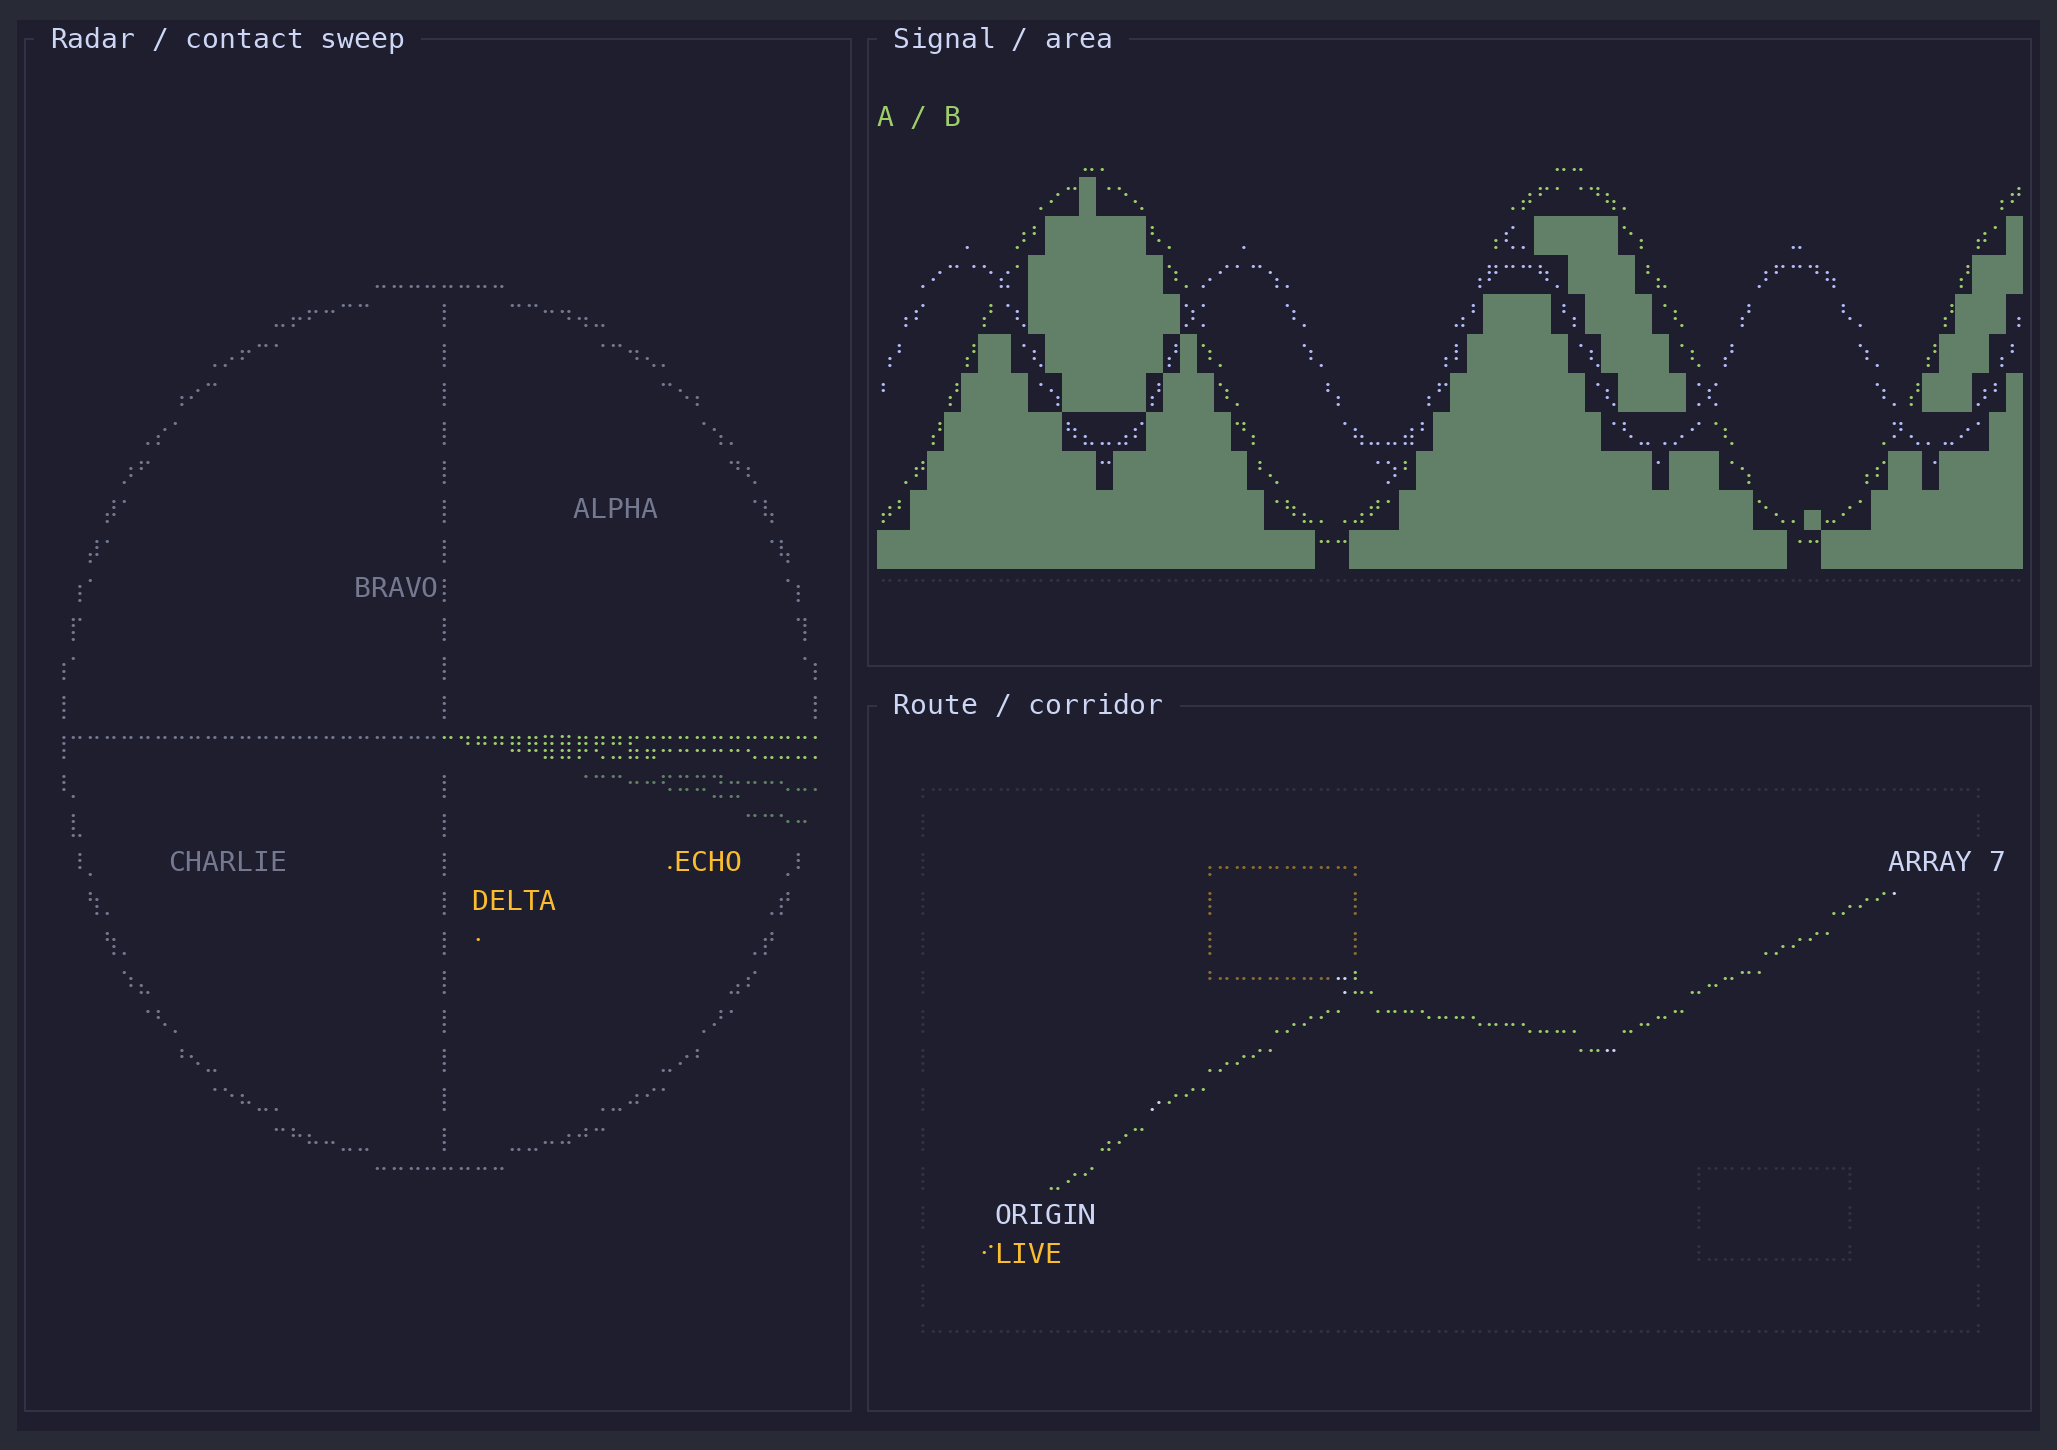
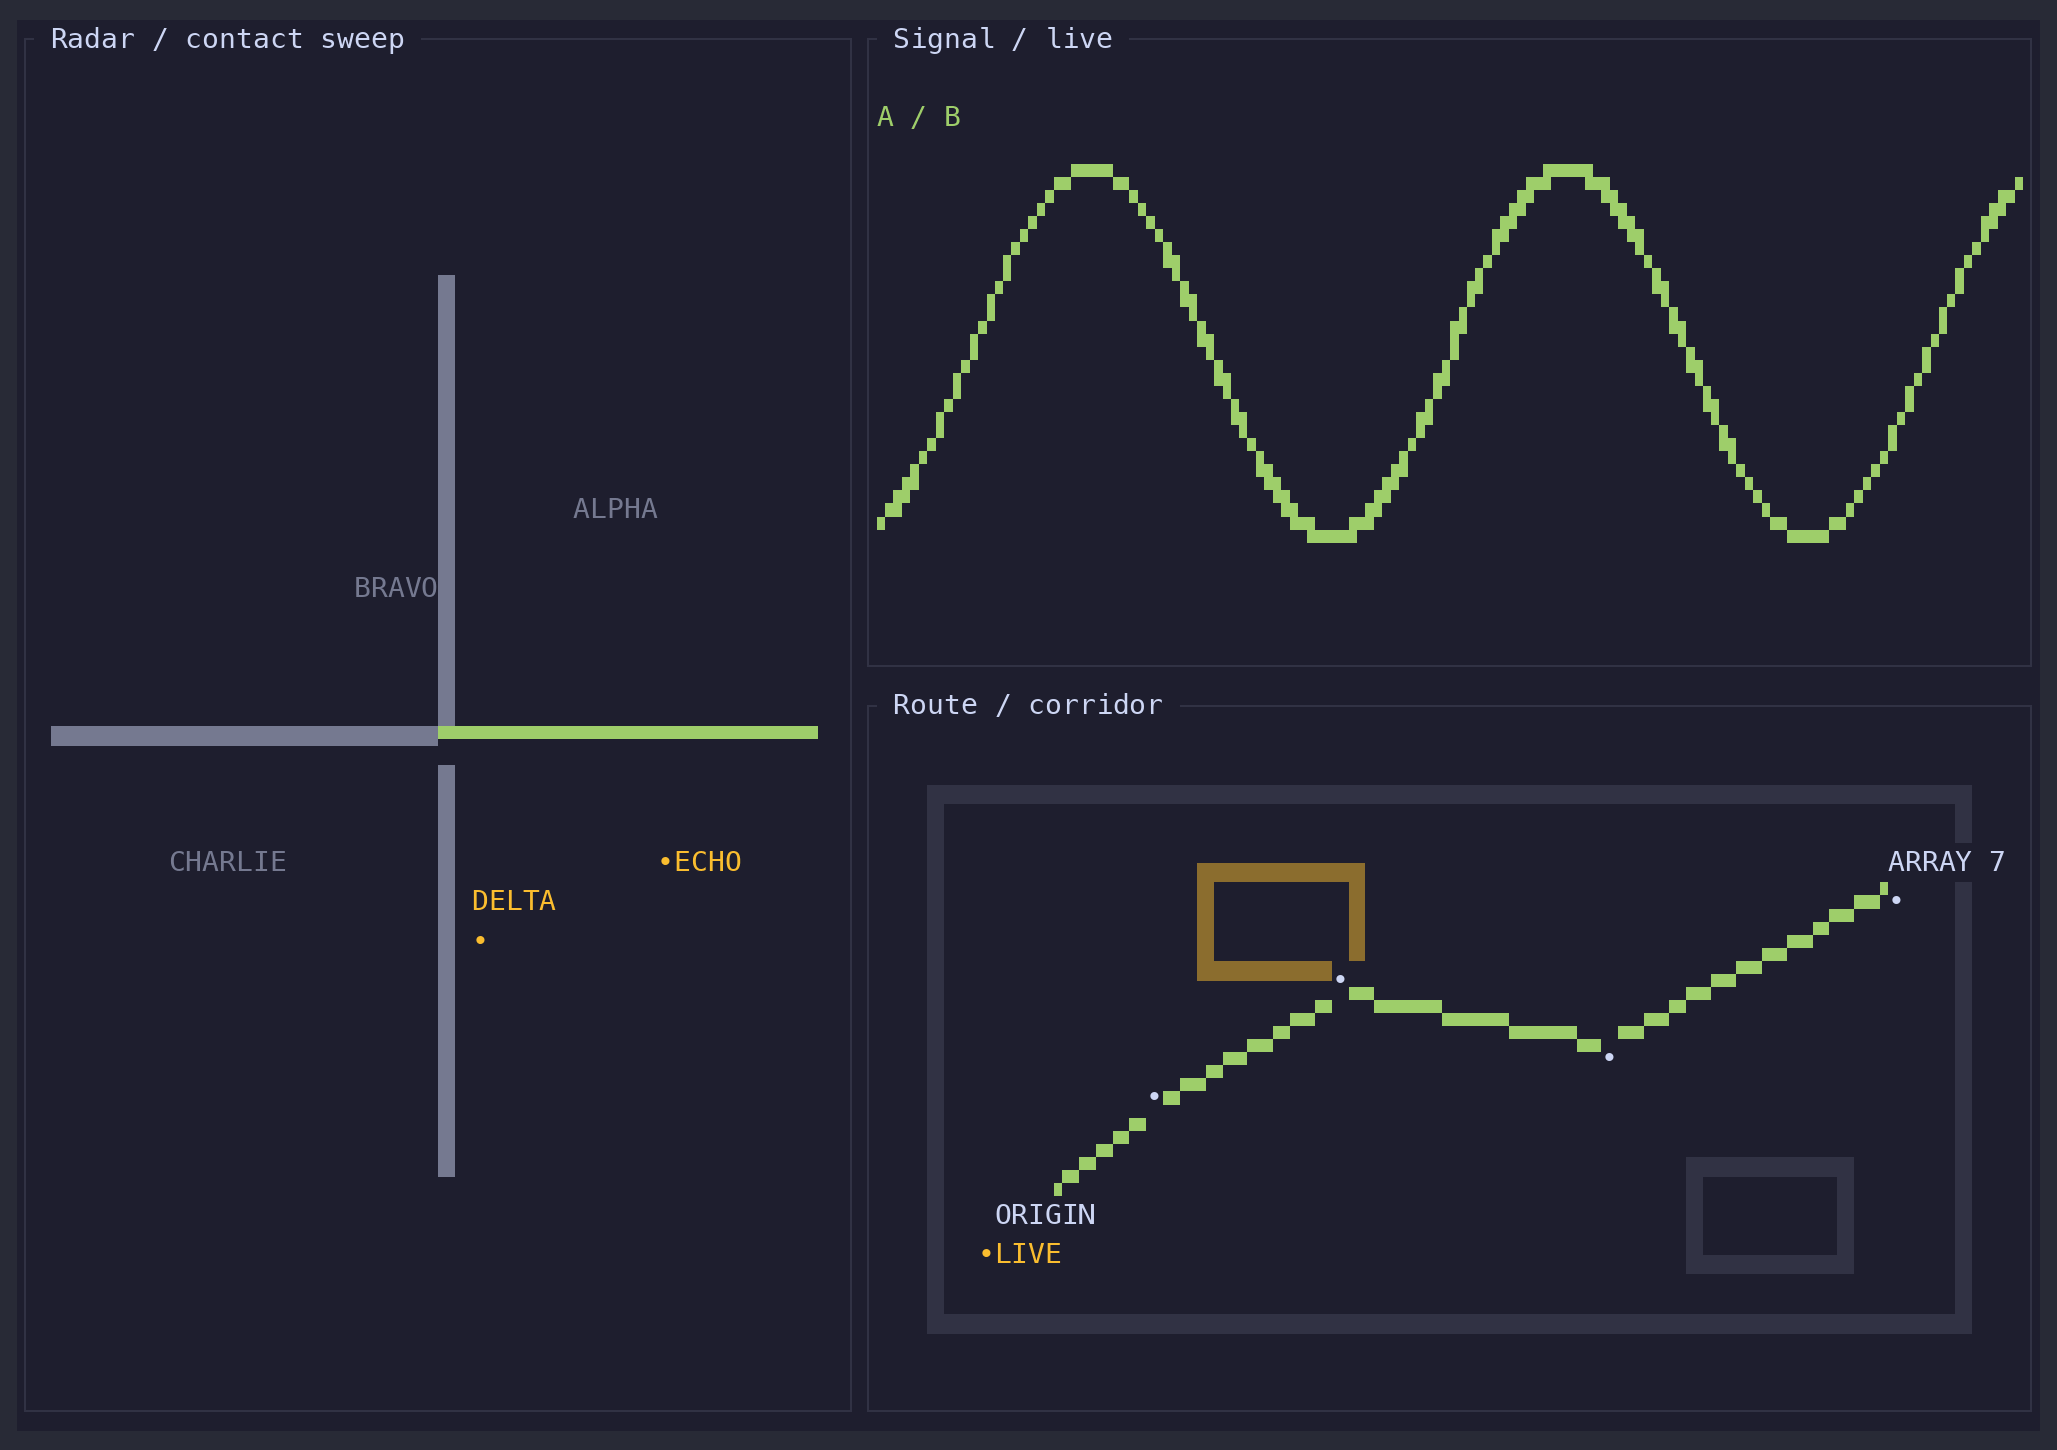
Smooth Canvas showcase lines

diff --git a/examples/widget_preview.rs b/examples/widget_preview.rs
@@ -16,7 +16,7 @@ use lunatui_core::{
 use lunatui_runtime::keymap::{Command, KeyChord, Keymap};
 use lunatui_term::{ColorMode, Encoder, KeyCode, Modifiers};
 use lunatui_theme::{Profile, Theme, Token, Variant};
-use lunatui_widgets::canvas::{Circle, Line, Points, Rectangle};
+use lunatui_widgets::canvas::{Line, Points, Rectangle};
 use lunatui_widgets::{
     Alignment, Axis, Bar, BarChart, BarDirection, BarGroup, BigText, Block, BorderType,
     Breadcrumbs, Canvas, Chart, Constraint, Dataset, Date, DateStyle, DividerId, Gauge, GraphType,
@@ -4349,9 +4349,7 @@ struct CanvasBoard {
     surface: Color,
     edge: Color,
     accent: Color,
-    ok: Color,
     warn: Color,
-    focus: Color,
     tick: u32,
 }
 
@@ -4362,9 +4360,7 @@ impl CanvasBoard {
             surface: cx.token(Token::Surface0),
             edge: cx.token(Token::Surface1),
             accent: cx.token(Token::Accent),
-            ok: cx.token(Token::Ok),
             warn: cx.token(Token::Warn),
-            focus: cx.token(Token::FocusRing),
             tick,
         }
     }
@@ -4388,7 +4384,7 @@ impl CanvasBoard {
         let (half_w, half_h) = (f64::from(inner.width), f64::from(inner.height) * 2.0);
         let radius = half_w.min(half_h) - 3.0;
         let sweep = f64::from(self.tick) * 0.022;
-        let (text, accent, ok, warn) = (self.text, self.accent, self.ok, self.warn);
+        let (text, accent, warn) = (self.text, self.accent, self.warn);
         let contacts: [(f64, f64, &str); 5] = [
             (0.62, 0.9, "ALPHA"),
             (0.35, 2.2, "BRAVO"),
@@ -4398,12 +4394,7 @@ impl CanvasBoard {
         ];
         Canvas::new(move |ctx| {
             let guide = Style::new().fg(text).with_attrs(Attrs::new().set_dim(true));
-            ctx.draw(&Circle {
-                x: 0.0,
-                y: 0.0,
-                radius,
-                style: guide,
-            });
+            ctx.marker(Marker::HalfBlock);
             ctx.draw(&Line {
                 x1: -radius,
                 y1: 0.0,
@@ -4419,26 +4410,17 @@ impl CanvasBoard {
                 style: guide,
             });
             ctx.layer();
-            let trail = [
-                Style::new().fg(ok).with_attrs(Attrs::new().set_dim(true)),
-                Style::new().fg(ok).with_attrs(Attrs::new().set_dim(true)),
-                Style::new()
-                    .fg(accent)
-                    .with_attrs(Attrs::new().set_dim(true)),
-                Style::new().fg(accent),
-            ];
-            for (step, style) in trail.iter().enumerate() {
-                let behind = f64::from(3_u8 - u8::try_from(step).unwrap_or(0));
-                let angle = sweep - 0.07 * behind;
-                ctx.draw(&Line {
-                    x1: 0.0,
-                    y1: 0.0,
-                    x2: radius * angle.cos(),
-                    y2: radius * angle.sin(),
-                    style: *style,
-                });
-            }
+            let angle = sweep.rem_euclid(core::f64::consts::TAU);
+            ctx.marker(Marker::Sextant);
+            ctx.draw(&Line {
+                x1: 0.0,
+                y1: 0.0,
+                x2: radius * angle.cos(),
+                y2: radius * angle.sin(),
+                style: Style::new().fg(accent),
+            });
             ctx.layer();
+            ctx.marker(Marker::Dot);
             for &(distance, bearing, name) in &contacts {
                 let (x, y) = (
                     radius * distance * bearing.cos(),
@@ -4465,51 +4447,26 @@ impl CanvasBoard {
     }
 
     fn scope(&self, area: Rect, cx: &mut RenderCx<'_>) {
-        let inner = self.panel("Signal / area", area, cx);
+        let inner = self.panel("Signal / live", area, cx);
         let (half_w, half_h) = (f64::from(inner.width), f64::from(inner.height) * 2.0);
         let phase = f64::from(self.tick) * 0.025;
-        let (accent, focus, edge, ok) = (self.accent, self.focus, self.edge, self.ok);
+        let accent = self.accent;
         Canvas::new(move |ctx| {
-            let wave = |x: f64, k: f64, shift: f64| (x * k + shift).sin() * half_h * 0.62;
-            let baseline = -half_h * 0.76;
-            ctx.marker(Marker::HalfBlock);
-            let mut x = -half_w;
+            let wave = |x: f64| (x * 0.11 + phase).sin() * half_h * 0.64;
+            ctx.marker(Marker::Sextant);
+            let mut previous = (-half_w, wave(-half_w));
+            let mut x = -half_w + 0.5;
             while x <= half_w {
+                let point = (x, wave(x));
                 ctx.draw(&Line {
-                    x1: x,
-                    y1: baseline,
-                    x2: x,
-                    y2: wave(x, 0.11, phase),
-                    style: Style::new().fg(ok).with_attrs(Attrs::new().set_dim(true)),
+                    x1: previous.0,
+                    y1: previous.1,
+                    x2: point.0,
+                    y2: point.1,
+                    style: Style::new().fg(accent),
                 });
-                x += 1.0;
-            }
-            ctx.marker(Marker::Braille);
-            ctx.draw(&Line {
-                x1: -half_w,
-                y1: baseline,
-                x2: half_w,
-                y2: baseline,
-                style: Style::new().fg(edge),
-            });
-            for (frequency, shift, gain, color) in [
-                (0.11, phase, 1.0, accent),
-                (0.19, -phase * 1.4, 0.55, focus),
-            ] {
-                let mut previous = (-half_w, wave(-half_w, frequency, shift) * gain);
-                let mut x = -half_w + 0.5;
-                while x <= half_w {
-                    let point = (x, wave(x, frequency, shift) * gain);
-                    ctx.draw(&Line {
-                        x1: previous.0,
-                        y1: previous.1,
-                        x2: point.0,
-                        y2: point.1,
-                        style: Style::new().fg(color),
-                    });
-                    previous = point;
-                    x += 0.5;
-                }
+                previous = point;
+                x += 0.5;
             }
             ctx.print(
                 -half_w + 1.0,
@@ -4552,6 +4509,7 @@ impl CanvasBoard {
             route[segment].1 + (route[segment + 1].1 - route[segment].1) * fraction,
         );
         Canvas::new(move |ctx| {
+            ctx.marker(Marker::HalfBlock);
             ctx.draw(&Rectangle {
                 x: -half_w * 0.92,
                 y: -half_h * 0.82,
@@ -4573,6 +4531,8 @@ impl CanvasBoard {
                 height: half_h * 0.30,
                 style: Style::new().fg(edge),
             });
+            ctx.layer();
+            ctx.marker(Marker::Sextant);
             for pair in route.windows(2) {
                 ctx.draw(&Line {
                     x1: pair[0].0,
@@ -4582,6 +4542,8 @@ impl CanvasBoard {
                     style: Style::new().fg(accent),
                 });
             }
+            ctx.layer();
+            ctx.marker(Marker::Dot);
             for (index, &(x, y)) in route.iter().enumerate() {
                 ctx.draw(&Points {
                     coords: &[(x, y)],

diff --git a/lunatui-widgets/src/raster.rs b/lunatui-widgets/src/raster.rs
@@ -202,19 +202,9 @@ impl Raster {
             };
             let sy = if y0 < y1 { 1 } else { -1 };
             for offset in 0..=dx {
-                let numerator = offset * dy;
-                let minor = numerator / dx;
-                let remainder = numerator % dx;
                 let x = x0 + offset;
-                let y = y0 + sy * minor;
-                match (2 * remainder).cmp(&dx) {
-                    core::cmp::Ordering::Less => self.mark(marker, x, y, series),
-                    core::cmp::Ordering::Equal => {
-                        self.mark(marker, x, y, series);
-                        self.mark(marker, x, y + sy, series);
-                    }
-                    core::cmp::Ordering::Greater => self.mark(marker, x, y + sy, series),
-                }
+                let minor = round_ratio_to_even(offset * dy, dx);
+                self.mark(marker, x, y0 + sy * minor, series);
             }
         } else {
             let ((x0, y0), (x1, _y1)) = if y0 > y1 {
@@ -224,19 +214,10 @@ impl Raster {
             };
             let sx = if x0 < x1 { 1 } else { -1 };
             for offset in 0..=dy {
-                let numerator = offset * dx;
-                let minor = numerator / dy;
-                let remainder = numerator % dy;
+                let minor = round_ratio_to_even(offset * dx, dy);
                 let x = x0 + sx * minor;
                 let y = y0 + offset;
-                match (2 * remainder).cmp(&dy) {
-                    core::cmp::Ordering::Less => self.mark(marker, x, y, series),
-                    core::cmp::Ordering::Equal => {
-                        self.mark(marker, x, y, series);
-                        self.mark(marker, x + sx, y, series);
-                    }
-                    core::cmp::Ordering::Greater => self.mark(marker, x + sx, y, series),
-                }
+                self.mark(marker, x, y, series);
             }
         }
     }
@@ -290,6 +271,17 @@ impl Raster {
                 error += 2 * dx;
             }
         }
+    }
+}
+
+#[cfg(feature = "canvas")]
+fn round_ratio_to_even(numerator: i64, denominator: i64) -> i64 {
+    let quotient = numerator / denominator;
+    let remainder = numerator % denominator;
+    match (remainder * 2).cmp(&denominator) {
+        core::cmp::Ordering::Less => quotient,
+        core::cmp::Ordering::Greater => quotient + 1,
+        core::cmp::Ordering::Equal => quotient + (quotient % 2),
     }
 }
 

diff --git a/lunatui-widgets/tests/canvas.rs b/lunatui-widgets/tests/canvas.rs
@@ -69,7 +69,39 @@ fn braille_line_ties_stay_centered_on_a_shallow_slope() {
         });
     });
 
-    assert_eq!(rows, ["⠙⠲⠄", "   "]);
+    assert_eq!(rows, ["⠉⠢⠄", "   "]);
+}
+
+#[test]
+fn braille_lines_keep_one_dot_per_major_tick_when_reversed() {
+    let render = |reverse: bool| {
+        show(Marker::Braille, ([0.0, 4.0], [0.0, 2.0]), (5, 2), |ctx| {
+            let (from, to) = if reverse {
+                ((4.0, 2.0), (0.0, 0.0))
+            } else {
+                ((0.0, 0.0), (4.0, 2.0))
+            };
+            ctx.draw(&Line {
+                x1: from.0,
+                y1: from.1,
+                x2: to.0,
+                y2: to.1,
+                style: Style::new(),
+            });
+        })
+    };
+    let dots = |rows: &[String]| {
+        rows.iter()
+            .flat_map(|row| row.chars())
+            .filter(|glyph| *glyph >= '\u{2800}' && *glyph <= '\u{28ff}')
+            .map(|glyph| (u32::from(glyph) - 0x2800).count_ones())
+            .sum::<u32>()
+    };
+
+    let forward = render(false);
+    let backward = render(true);
+    assert_eq!(forward, backward);
+    assert_eq!(dots(&forward), 10);
 }
 
 #[test]

diff --git a/lunatui-widgets/tests/canvas_ratatui.rs b/lunatui-widgets/tests/canvas_ratatui.rs
@@ -80,7 +80,7 @@ fn non_braille_shapes_match_the_reference_canvas() {
         for bounds in [([0.0, 20.0], [0.0, 10.0]), ([-10.0, 10.0], [-5.0, 5.0])] {
             for (marker, rat_marker) in markers()
                 .into_iter()
-                .filter(|(marker, _)| *marker != Marker::Braille)
+                .filter(|(marker, _)| !matches!(marker, Marker::Braille | Marker::Sextant))
             {
                 let ours_rows = ours(marker, bounds, size, |ctx| {
                     ctx.draw(&Rectangle {

diff --git a/lunatui-widgets/src/canvas.rs b/lunatui-widgets/src/canvas.rs
@@ -50,7 +50,7 @@ impl Painter<'_> {
             return;
         }
         let tag = self.tag(style);
-        if self.marker == Marker::Braille {
+        if matches!(self.marker, Marker::Braille | Marker::Sextant) {
             self.raster
                 .segment_centered(self.window, self.marker, from, to, tag);
         } else {

diff --git a/README.md b/README.md
@@ -75,11 +75,11 @@ Screenshot: [docs/media/split.png](docs/media/split.png). Recorded with `scripts
 
 ### Canvas
 
-A monitoring wall drawn with Canvas: one radar ring and a smoothly rotating sweep, a live signal chart over a half-block filled area, and a route map with corridor rectangles, labeled waypoints, points, and a continuously moving marker. Lines and curves use braille's 2×4 sub-cell grid.
+A monitoring wall drawn with Canvas: a radar sweep over sparse half-block guides with labeled contacts, a single live signal curve, and a route map with smooth paths, outlined corridors, labeled waypoints, and a moving marker. Braille's 2×4 sub-cell grid draws curves; half-blocks keep straight guides and rectangles solid.
 
-<img src="docs/media/canvas.webp" alt="Canvas widget: a radar sweep, filled signal chart, and labeled route map in the dark theme" width="1028">
+<img src="docs/media/canvas.webp" alt="Canvas widget: a radar sweep, one signal curve, and a labeled route map in the dark theme" width="1028">
 
-Screenshot: [docs/media/canvas.png](docs/media/canvas.png). Recorded with `scripts/record-showcase.sh` (`CASE=canvas`, 120×36, 240-frame request at 30 fps, dark, 2× scale, lossless animated WebP, about 10 seconds; captured frames are retained).
+Screenshot: [docs/media/canvas.png](docs/media/canvas.png). Recorded with `scripts/record-showcase.sh` (`CASE=canvas`, 120×36, 240-frame request at 30 fps, dark, 2× scale, lossless animated WebP, about 8 seconds; captured frames are retained).
 
 ### Toast
 

diff --git a/CHANGELOG.md b/CHANGELOG.md
@@ -10,7 +10,7 @@ Every PR adds its entry under **Unreleased**.
 
 ### Added
 
-- Canvas lines use a centered Braille sub-cell raster for smoother strokes; `Context::marker` lets a paint closure use block markers for fills while keeping the rest Braille.
+- Canvas Braille lines use a thin, centered sub-cell raster so ties stay in one stroke; `Context::marker` lets a paint closure switch to block markers for straight guides and outlines.
 - `TabsDrag` turns pointer press, drag, and release over the regions from `Tabs::tab_areas` into a `TabMove` that reorders tabs: dropping on another tab moves the dragged tab there, a press that stays on its own tab is a click, and leaving the strip or `cancel` drops nothing. `TabMove::apply` reorders a `Vec` and `TabMove::selection` keeps the selection on the same tab.
 - `KeyHintBar`, behind the `key-hints` feature, renders the first registered shortcut for each command in the active `Keymap`.
 
